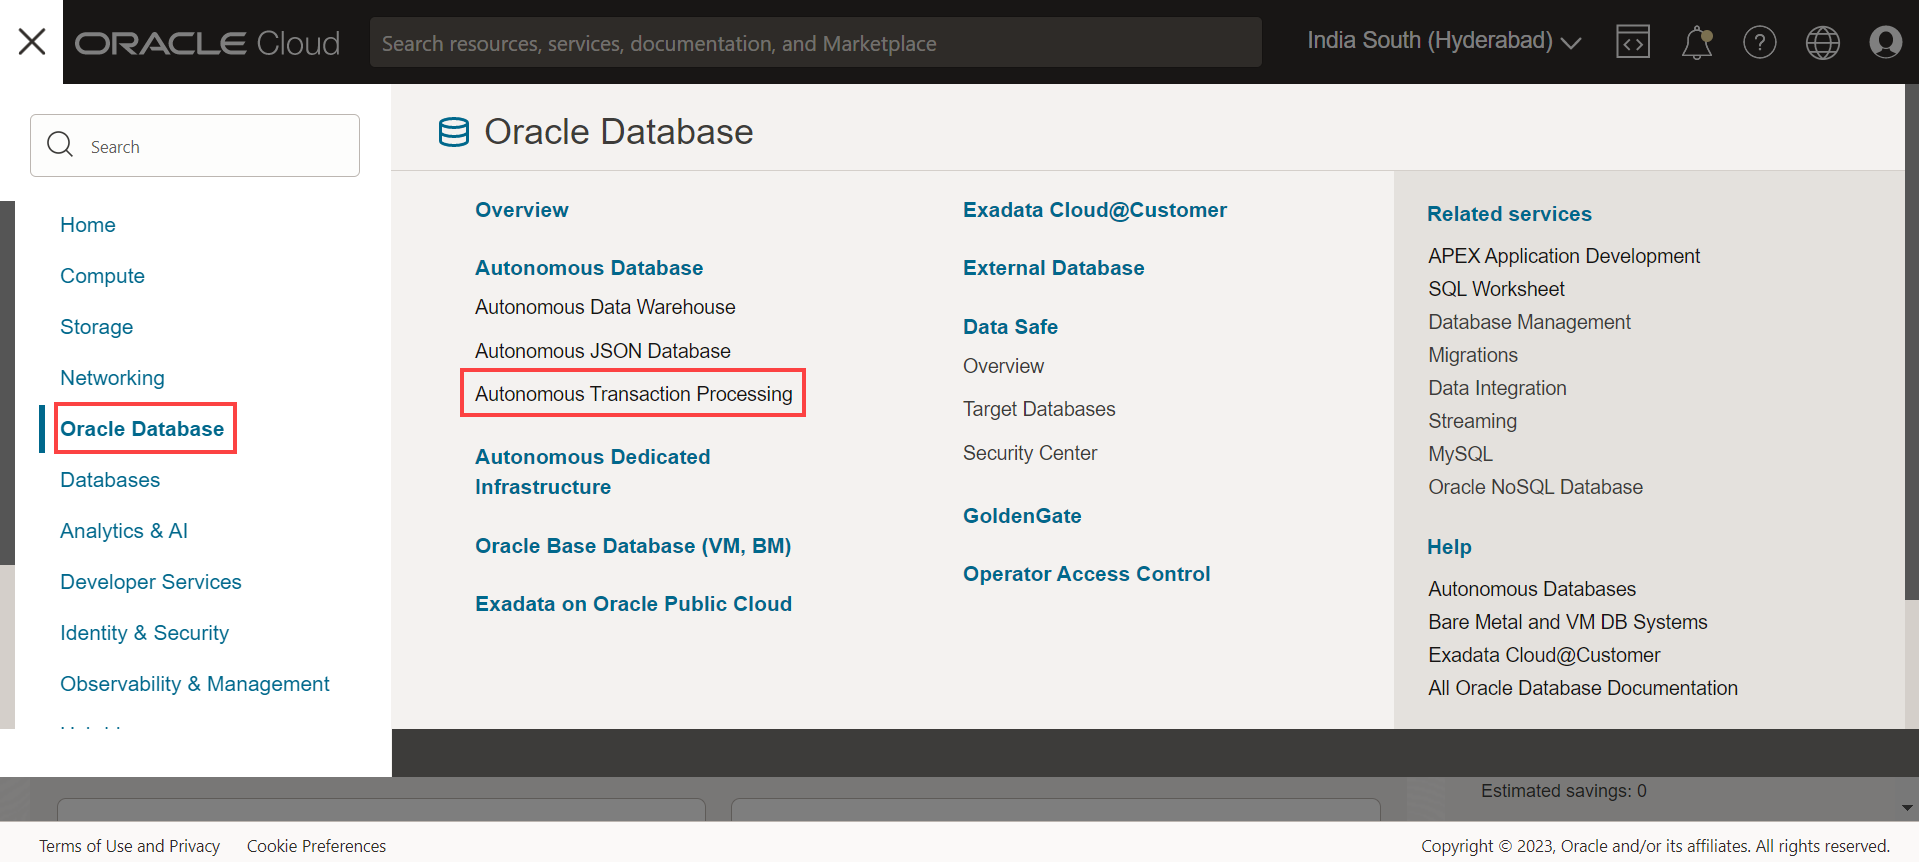
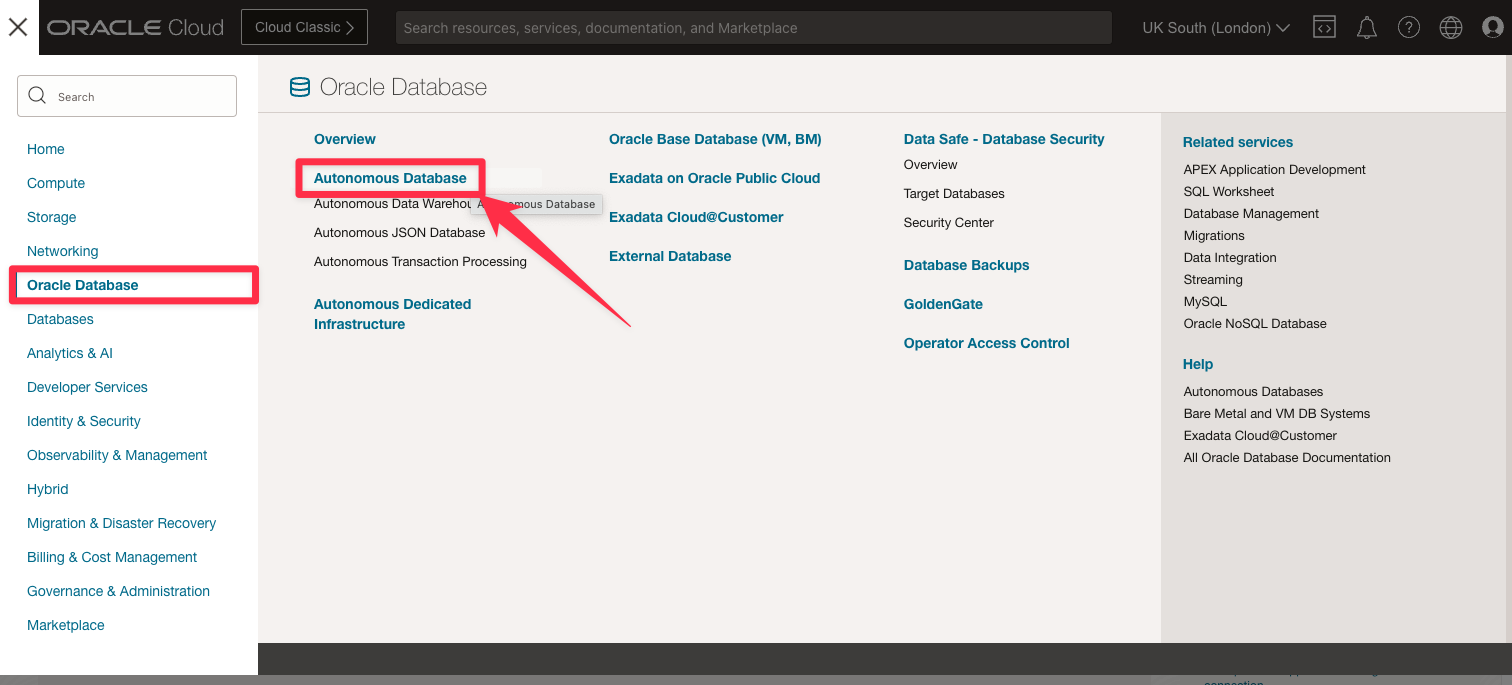
WMS 11360: Fixed instructions and screenshots to reflect changes in ADB overview screen (#59)
* cleanup migration

cleanup migration

* WMS IDs: 1076, 8641, 7081: Update OCW manifest files

WMS IDs: 1076, 8641, 7081: Update OCW manifest files

* WMS 11360: Fixed instructions and screenshots to reflect changes in ADB overview screen

WMS 11360: Fixed instructions and screenshots to reflect changes in ADB overview screen

diff --git a/common/1-sign-up-apex/create-adb-livelabs.md b/common/1-sign-up-apex/create-adb-livelabs.md
@@ -24,55 +24,60 @@ In this lab, you will:
 Note: You can also directly access your Autonomous Data Warehouse or Autonomous Transaction Processing service in the Quick Actions section of the dashboard.
 
 3. Select **Autonomous Transaction Processing**.
+  ![Cloud homepage](images/database-atp.png  " ")
+ 
 
-  ![Cloud Dashboard](https://objectstorage.us-phoenix-1.oraclecloud.com/p/SJgQwcGUvQ4LqtQ9xGsxRcgoSN19Wip9vSdk-D_lBzi7bhDP6eG1zMBl0I21Qvaz/n/c4u02/b/common/o/images/console/database-atp.png " ")
-
-4. Use the List Scope drop-down menu to select a compartment. If you are using a LiveLabs environment, be sure to select the compartment provided by the environment from the List Scope drop-down menu.
+1. Use the List Scope drop-down menu to select a compartment. If you are using a LiveLabs environment, be sure to select the compartment provided by the environment from the List Scope drop-down menu.
     ![Compartment drop down list](images/livelabs-compartment.png " ")
-5. You can see your current default region in the top, right hand corner of the page.
+2. You can see your current default region in the top, right hand corner of the page.
 
-6. Click **Create Autonomous Database**.
+3. Click **Create Autonomous Database**.
 
-  ![Region drop down list](images/region.png " ")
+4. Double check that you are using the compartment assigned to you
+5. Select **Transaction Processing** as the workload.
+6. Leave all the settings at their default values.
+7.  Use **```SecretPassw0rd```** for the ADMIN password
+8.  Select **License Included **, then click **Create Autonomous Database**.
 
-7. Select the **Always Free** option, enter **```SecretPassw0rd```** for the ADMIN password, then click **Create Autonomous Database**.
+9.  Check the following screenshot to verify your settings:
 
-  ![Create Autonomous Database page](images/atp-settings-1.png " ")
-  ![Create Autonomous Database page](images/atp-settings-2.png " ")
-  ![Create Autonomous Database page](images/atp-settings-3.png " ")
+    ![Create Autonomous Database page](images/create-atp-full.png " ")
 
-8. After clicking **Create Autonomous Database**, you will be redirected to the Autonomous Database Details page for the new instance.
+After clicking **Create Autonomous Database**, you will be redirected to the Autonomous Database Details page for the new instance.
 
 Continue when the status changes from:
 
-  ![Autonomous Database Details page](images/status-provisioning.png " ")
+  ![Autonomous Database Details page](images/status-provisioning.png =50%x*)
 
 to:
 
-  ![Autonomous Database Details page](images/status-available.png " ")
+  ![Autonomous Database Details page](images/status-available.png =50%x*)
   
 ## Task 2: Create a APEX workspace
 
 1. Within your new database, APEX is not yet configured. Therefore, when you first access APEX, you will need to log in as an APEX Instance Administrator to create a workspace.
 
-    Click the **Tools** tab.
-    Click **Open APEX**.
+    Click the **Apex Instance URL** provided on the ATP overview screen.
+    
+    ![Open APEX instance](images/apex-instance.png " ")
 
-    ![Autonomous Database Details page](images/click-apex.png " ")
+2. Now, click **Launch APEX**
 
+    ![Launch APEX instance](images/launch-apex-inst.png " ")
+   
 
-2. Enter the password for the Administration Services and click **Sign In to Administration**.     
+3. Enter the password for the Administration Services and click **Sign In to Administration**.     
     The password is the same as the one entered for the ADMIN user when creating the ATP instance: **```SecretPassw0rd```**
 
     ![Administration Services login page](images/log-in-as-admin.png " ")
 
-3. Click **Create Workspace**.
+4. Click **Create Workspace**.
 
     ![Create Workspace page](images/welcome-create-workspace.png " ")
 
-4. Depending on how you would like to create your workspace, select **New Schema** or **Existing Schema**. If you are getting started, select **New Schema**.
+5. Depending on how you would like to create your workspace, select **New Schema** or **Existing Schema**. If you are getting started, select **New Schema**.
 
-  ![Choose type of schema](images/choose-schema.png " ")
+    ![Choose type of schema](images/choose-schema.png " ")
   
 5. In the Create Workspace dialog, enter the following:
 

diff --git a/common/1-sign-up-apex/1-sign-up-apex.md b/common/1-sign-up-apex/1-sign-up-apex.md
@@ -177,28 +177,31 @@ In this part, you will create an Oracle APEX Application Development Service tri
       ![Autonomous Database Details page](images/status-available.png " ")
   
   9. Within your new database, APEX is not yet configured. Therefore, when you first access APEX, you will need to log in as an APEX Instance Administrator to create a workspace.
-  
-      Click the **Tools** tab.
-      Click **Open APEX**.
-  
-      ![Autonomous Database Details page](images/click-apex.png " ")
+    Click the **Apex Instance URL** provided on the ATP overview screen.
+    
+    ![Open APEX instance](images/apex-instance.png " ")
+    
+  10. Now, click **Launch APEX**
+   
+    ![Launch APEX instance](images/launch-apex-inst.png " ")
+   
   
       *Note: Always Free Autonomous Database will be stopped after being inactive for 7 days. If that happens, you need to click **More Actions** and then **Start** to start your Autonomous Database, and then **Open APEX**.*
   
-  10. Enter the password for the Administration Services and click **Sign In to Administration**.     
+  11. Enter the password for the Administration Services and click **Sign In to Administration**.     
       The password is the same as the one entered for the ADMIN user when creating the ATP instance: **```SecretPassw0rd```**
   
       ![Administration Services login page](images/log-in-as-admin.png " ")
   
-  11. Click **Create Workspace**.
+  12. Click **Create Workspace**.
   
       ![Create Workspace page](images/welcome-create-workspace.png " ")
   
-  11. Depending on how you would like to create your workspace, select **New Schema** or **Existing Schema**. If you are getting started, select **New Schema**.
+  13. Depending on how you would like to create your workspace, select **New Schema** or **Existing Schema**. If you are getting started, select **New Schema**.
   
     ![Choose type of schema](images/choose-schema.png " ")
     
-  12. In the Create Workspace dialog, enter the following:
+  14. In the Create Workspace dialog, enter the following:
   
       | Property | Value |
       | --- | --- |

diff --git a/social-media-app/5-build-page-regions/5-build-page-regions.md b/social-media-app/5-build-page-regions/5-build-page-regions.md
@@ -261,7 +261,7 @@ the tree, and click **Create Button**
 
 2. Configure the button as follows:
 
-    - Button Name: **SAVE**
+    - Button Name: **Save**
 
     - Layout > Position: **Next**
 
@@ -314,7 +314,7 @@ which is initially set to **Show,** and set the following attributes:
 
     - Identification > Action: **Submit Page**
 
-    - Settings > Request/Button name: **SAVE**
+    - Settings > Request/Button name: **Save**
 
     - Ensure **Show processing** is **ON**
 
